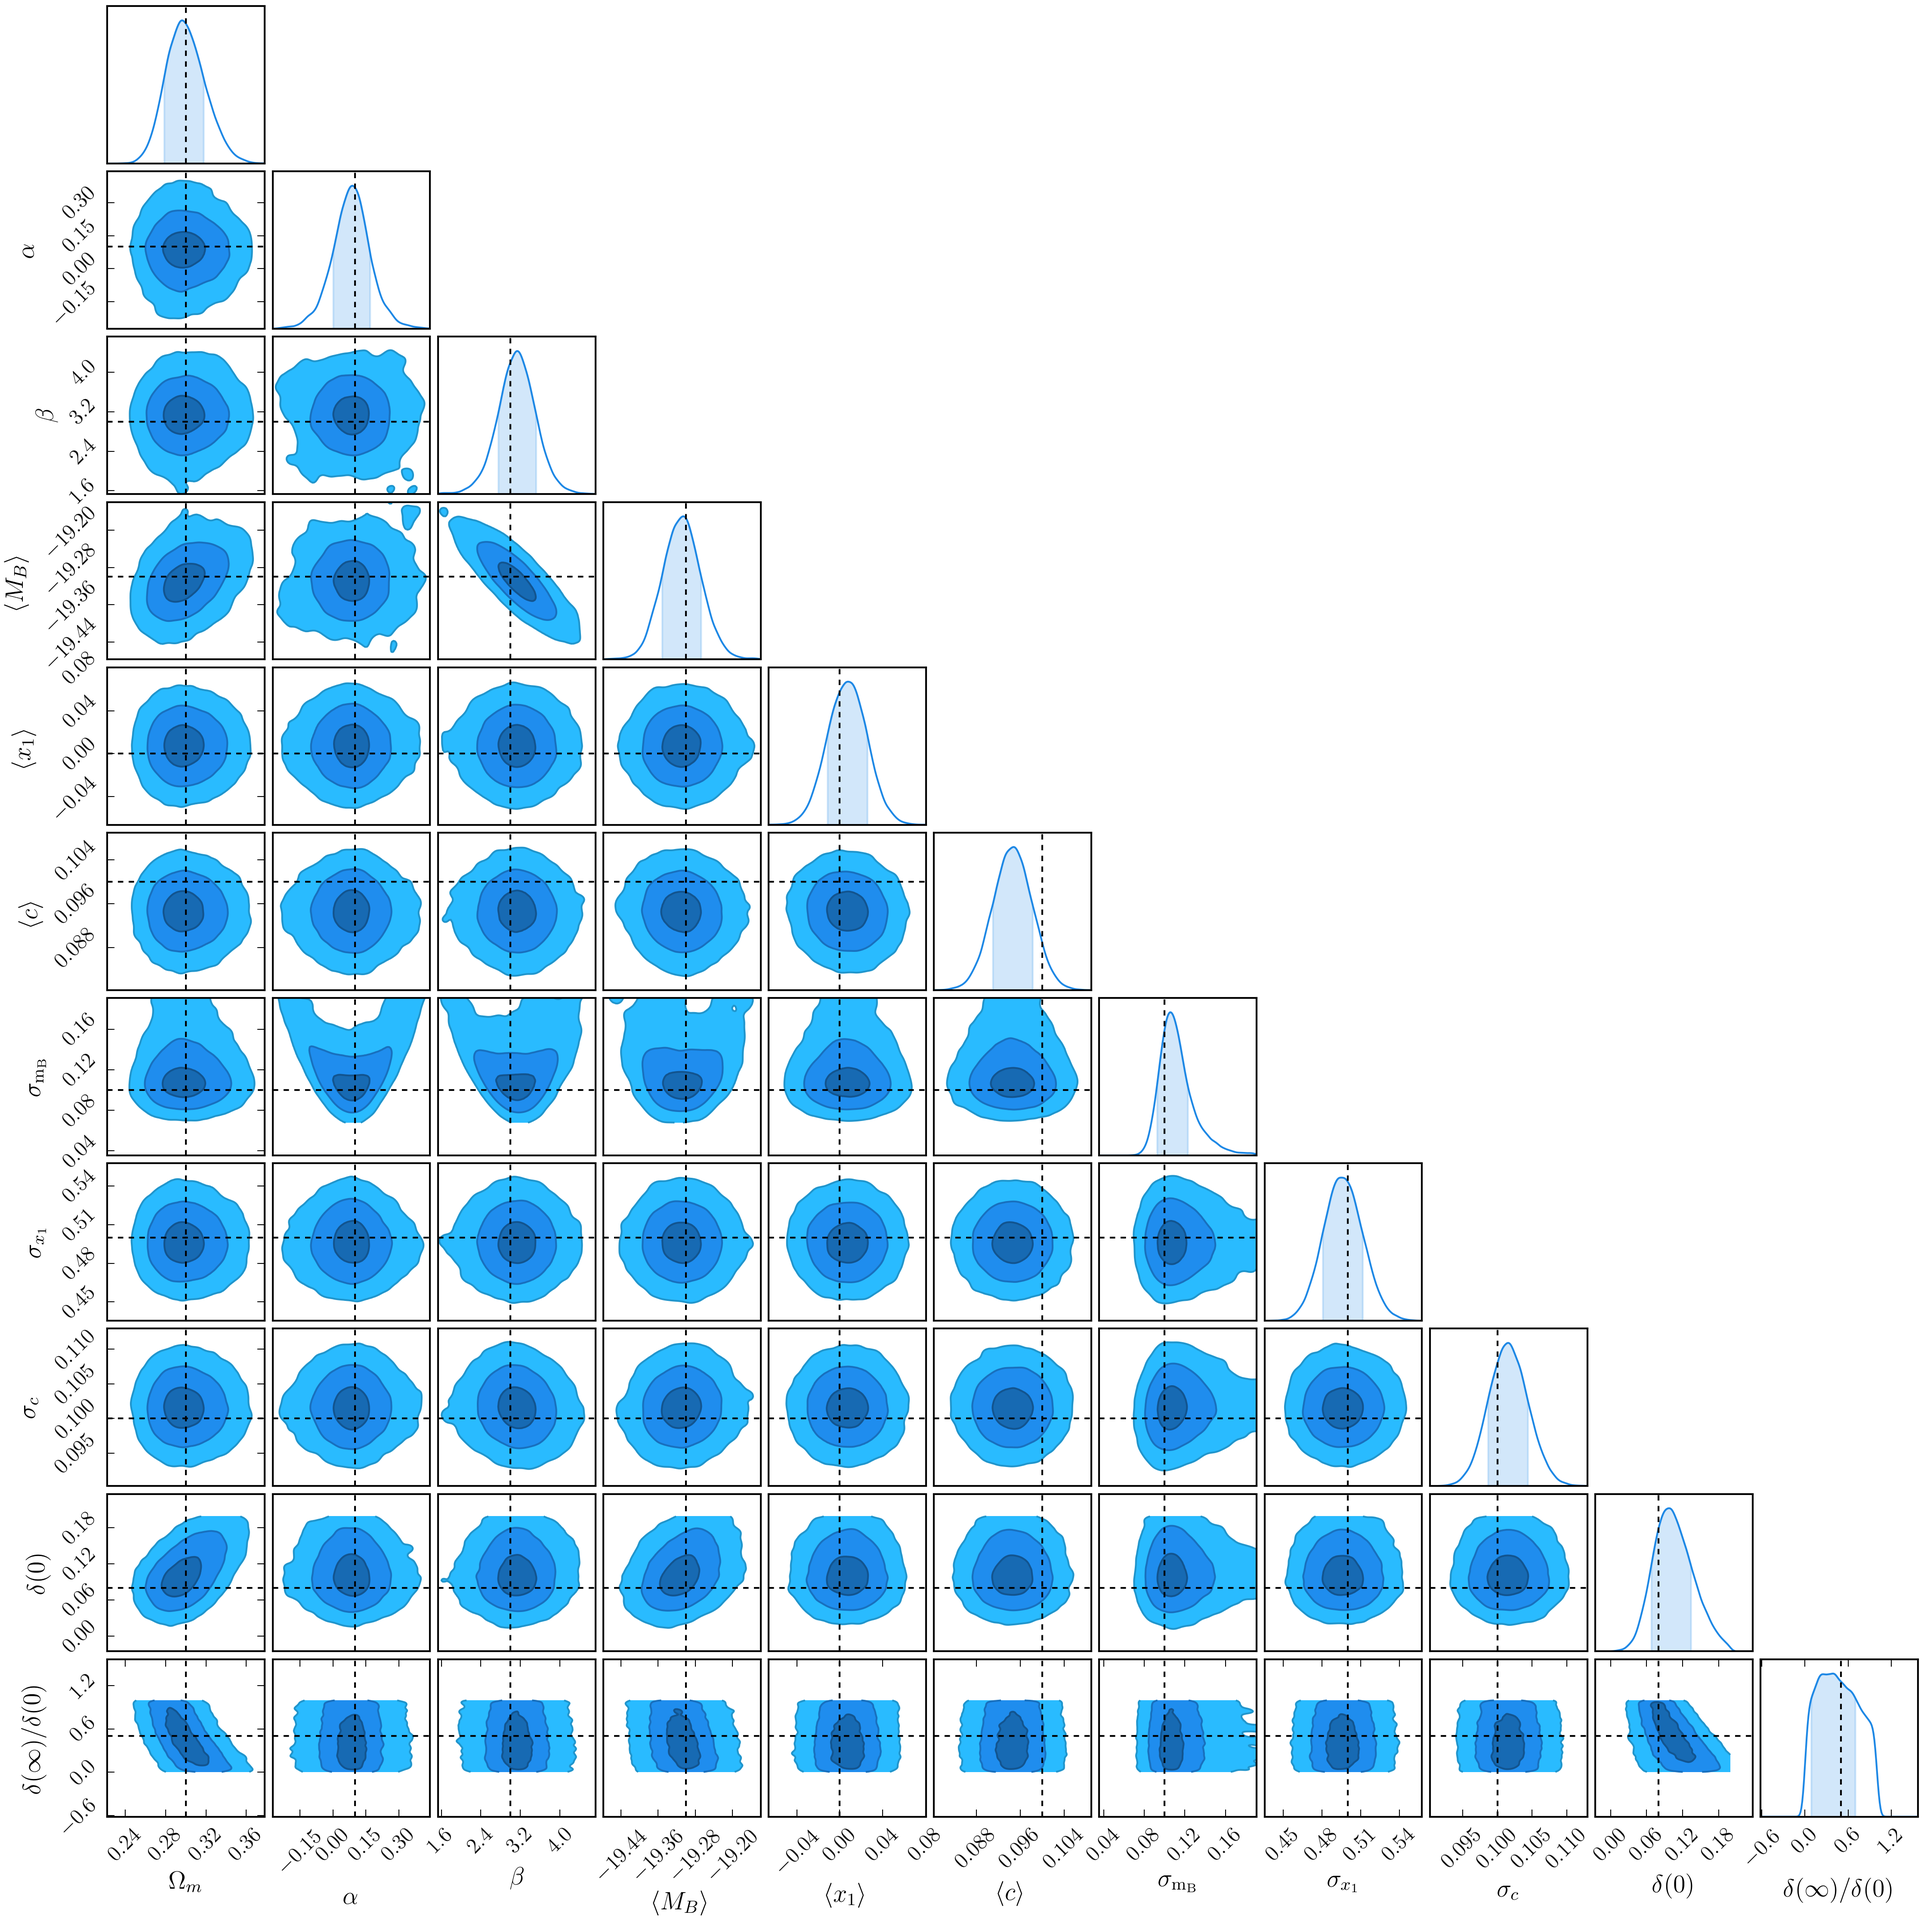
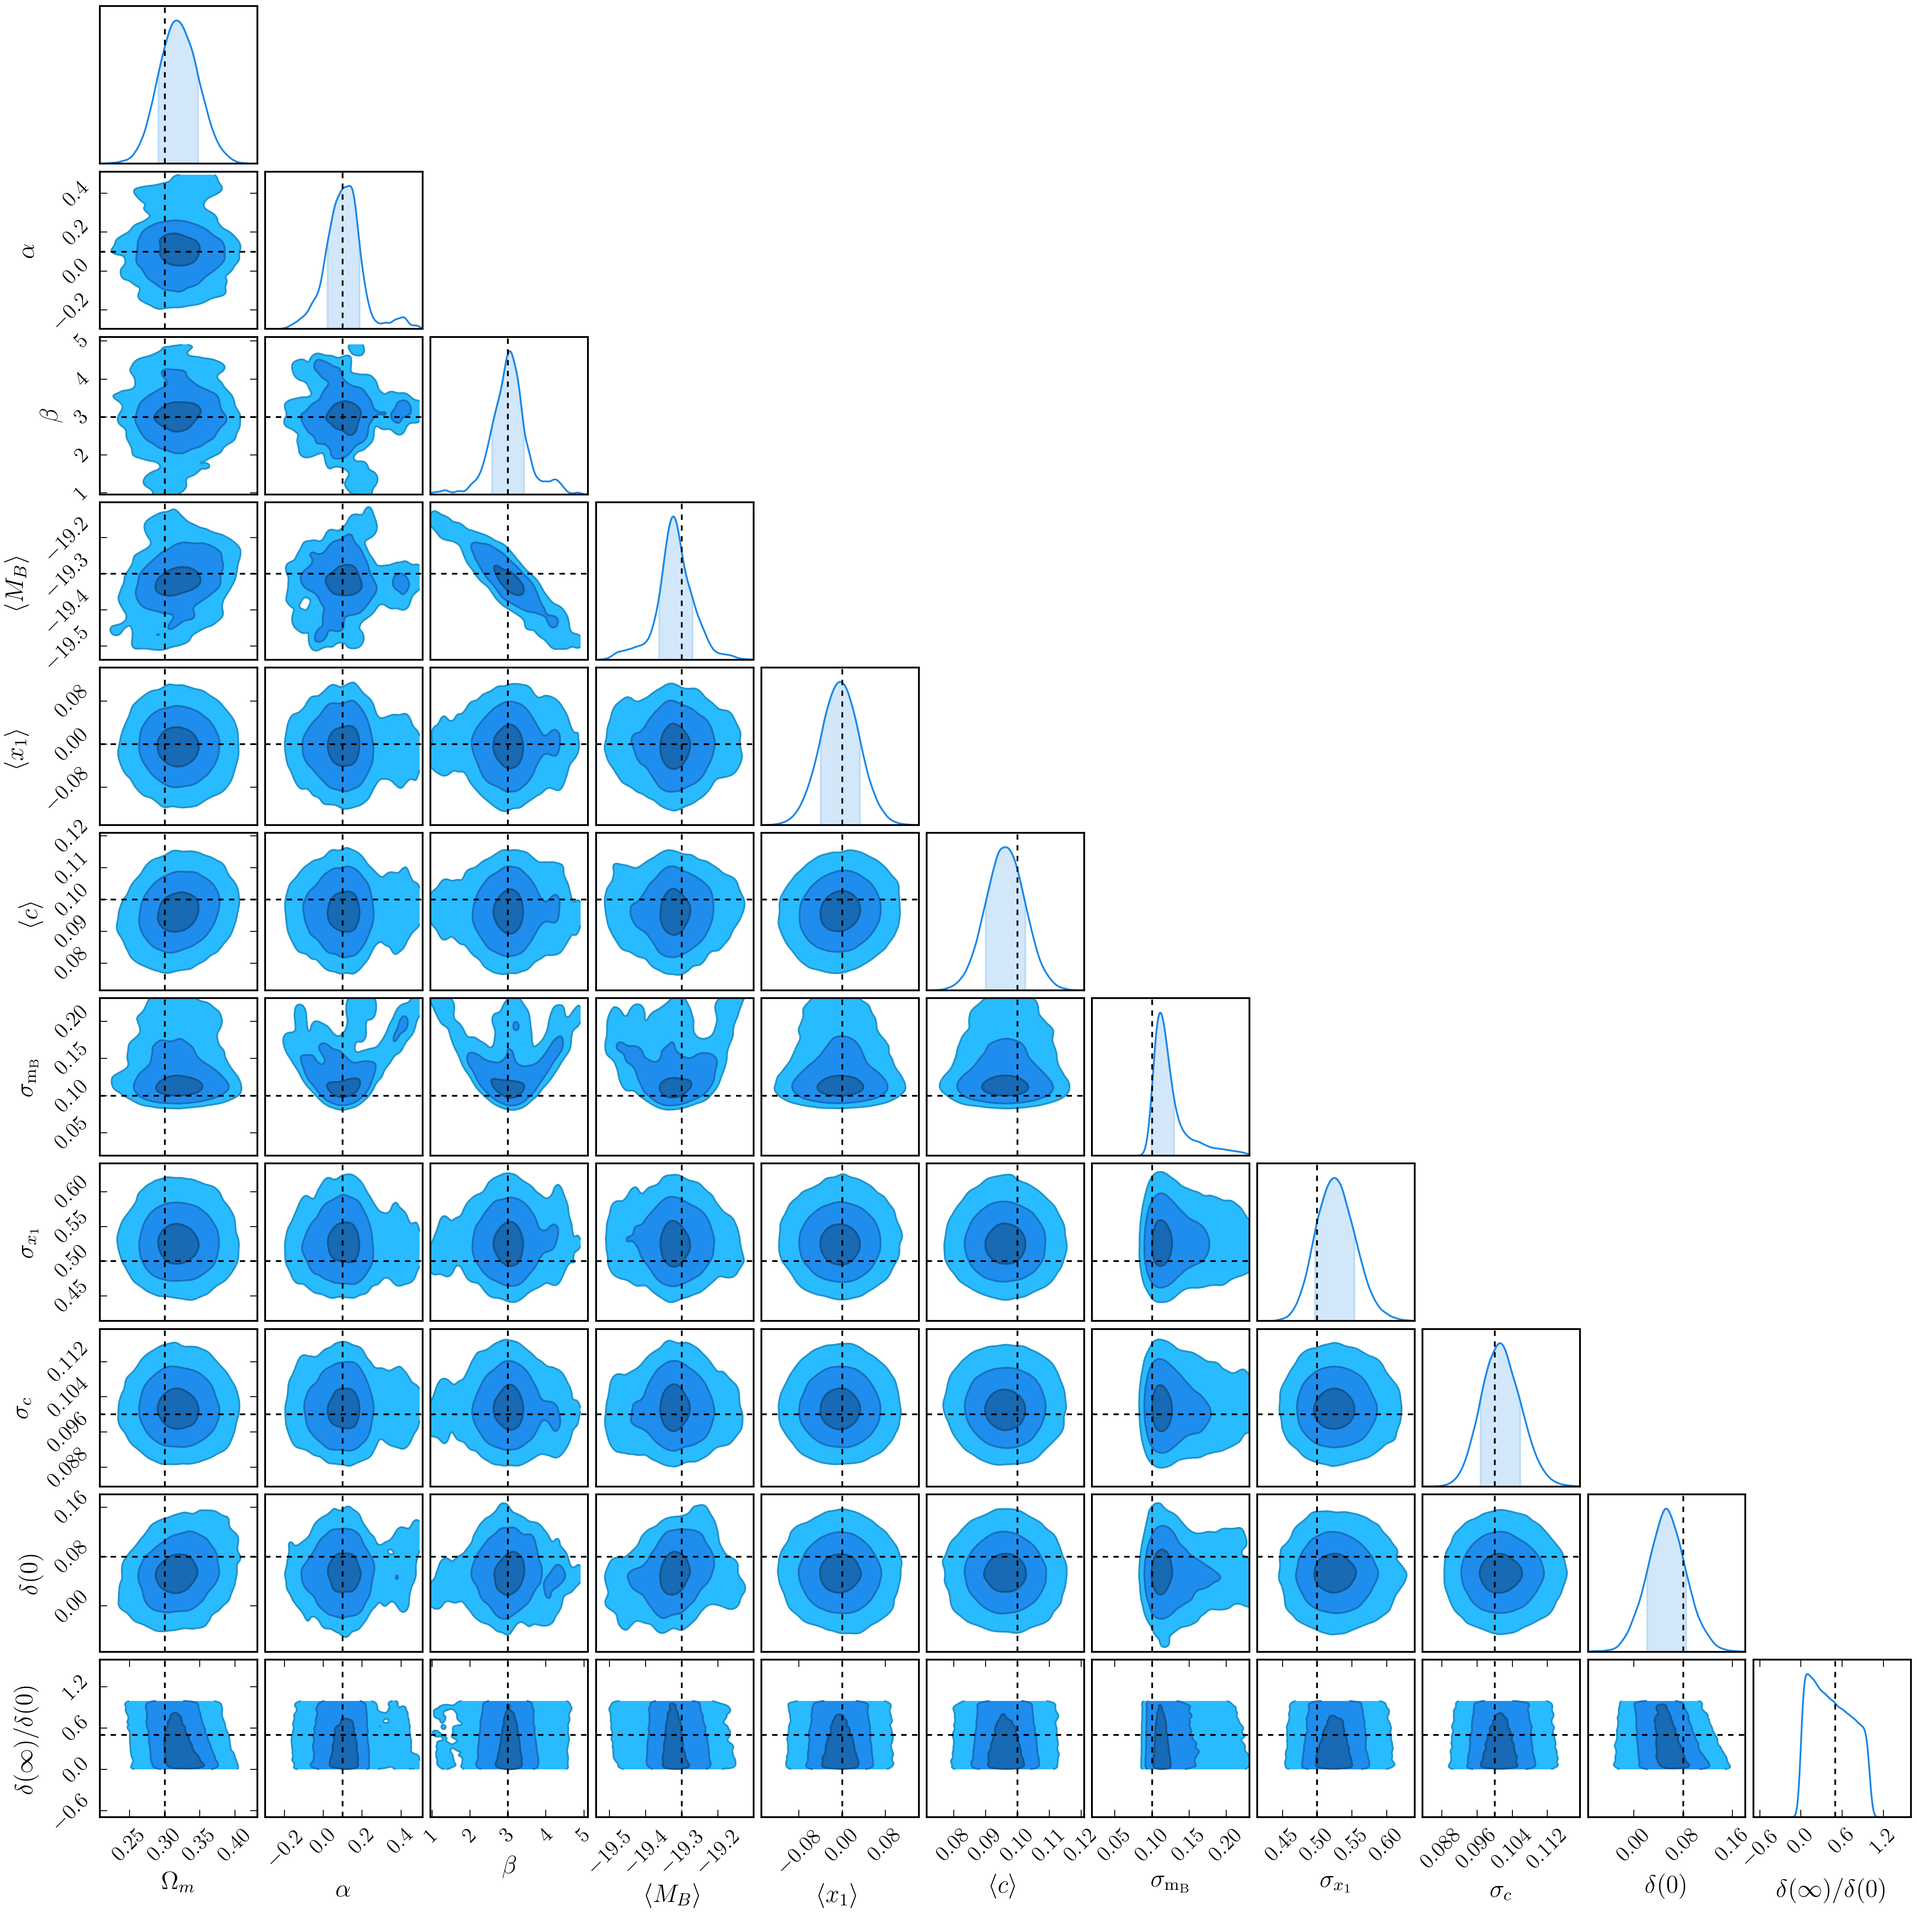
Updating plots to include the bias corrections inside stan

Changed region(s): [[0.0, 0.0312, 0.9987, 0.9987]]

diff --git a/dessn/models/d_simple_stan/load_stan_complete.py b/dessn/models/d_simple_stan/load_stan_complete.py
@@ -33,7 +33,7 @@ if __name__ == "__main__":
     td = dir_name + "/output/"
     std_simple = dir_name + "/stan_output"
     std = dir_name + "/stan_output_complete"
-    chain1, posterior1, _, _, _, num_walks1 = load_stan_from_folder(std)
+    chain1, posterior1, _, _, _, num_walks1 = load_stan_from_folder(std_simple)
     chain, posterior, truths, params, full_params, num_walks = load_stan_from_folder(std)
     c = ChainConsumer().add_chain(chain, posterior=posterior, walkers=num_walks)
     print("Plotting walks")
@@ -41,3 +41,7 @@ if __name__ == "__main__":
     print("Plotting surfaces")
     c.plot(filename=td+"complete_plot.png", truth=truths, parameters=params)
     c.plot(filename=td+"complete_plot_full.png", truth=truths, parameters=full_params)
+
+    c = ChainConsumer().add_chain(chain, posterior=posterior, walkers=num_walks, name="Corrected")
+    c.add_chain(chain1, posterior=posterior1, walkers=num_walks1, name="Uncorrected")
+    c.plot(filename=td+"complete_comparison.png", truth=truths, parameters=params)

diff --git a/dessn/models/d_simple_stan/__init__.py b/dessn/models/d_simple_stan/__init__.py
@@ -280,7 +280,19 @@ frequency of observation, weather effects, etc. The selection effects we need to
     contours when looking at different values of :math:`\sigma`, and the ratio difference there
     for 2000 data points is only 81 (so 404 would be several times worse).
 
+    .. figure::     ../dessn/models/d_simple_stan/output/comparison.png
+        :align:     center
+
+        You can see that importance sampling fails in this case, where some areas of
+        the parameter space have radically increased weight.
 
 
+Having implemented a simple bias correction in STAN, we can see the effect one 300 supernova,
+using bias calculations coming from Monte Carlo integration of twenty thousand supernova.
+
+.. figure::     ../dessn/models/d_simple_stan/output/complete_comparison.png
+    :align:     center
+
+    Perhaps need a longer burnin and more chains, but you get the idea!
 
 """
